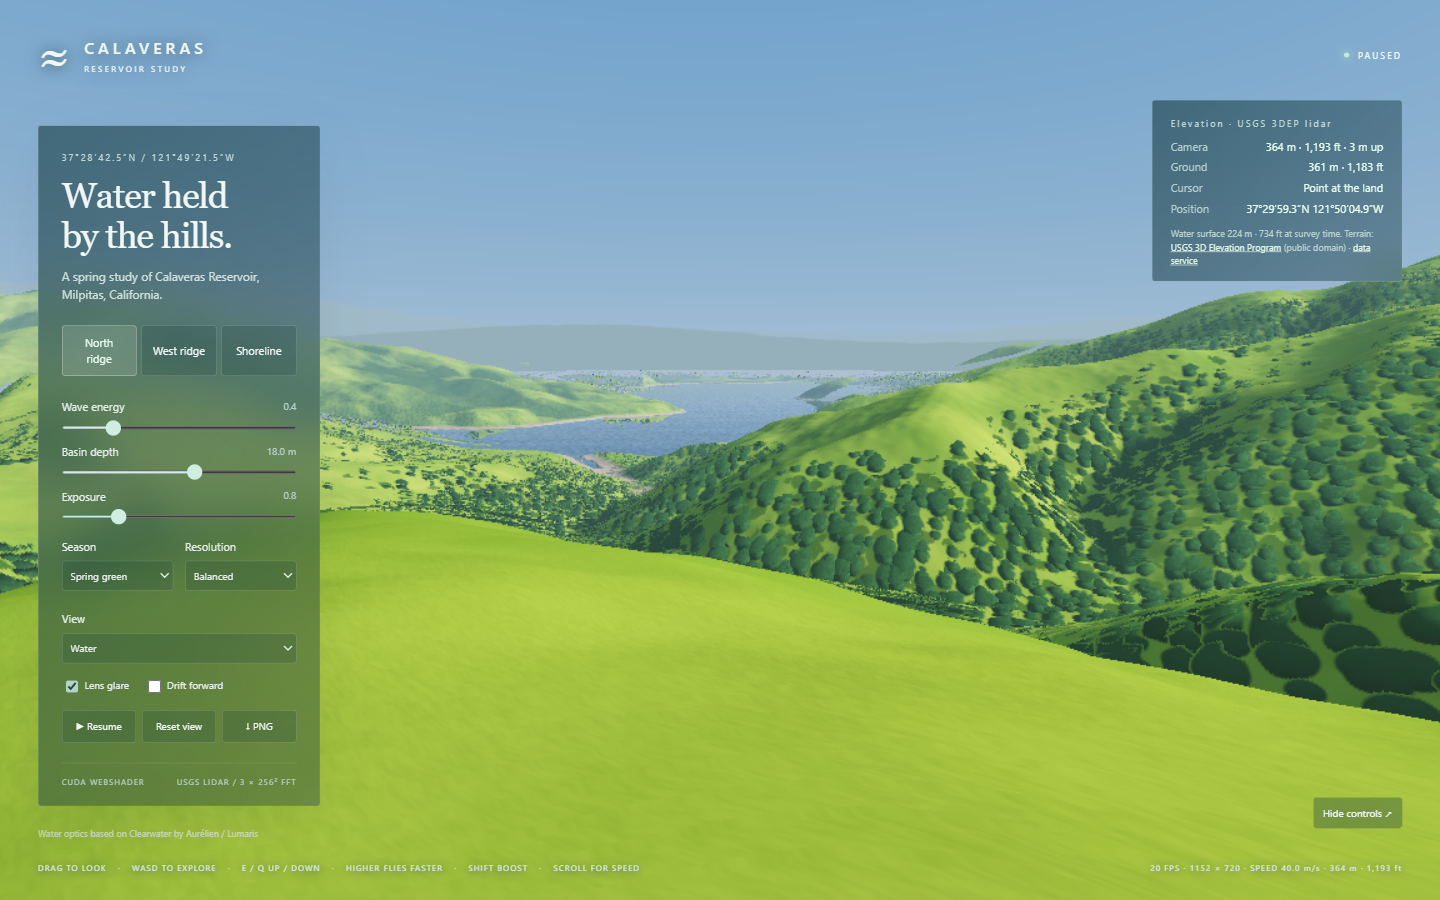
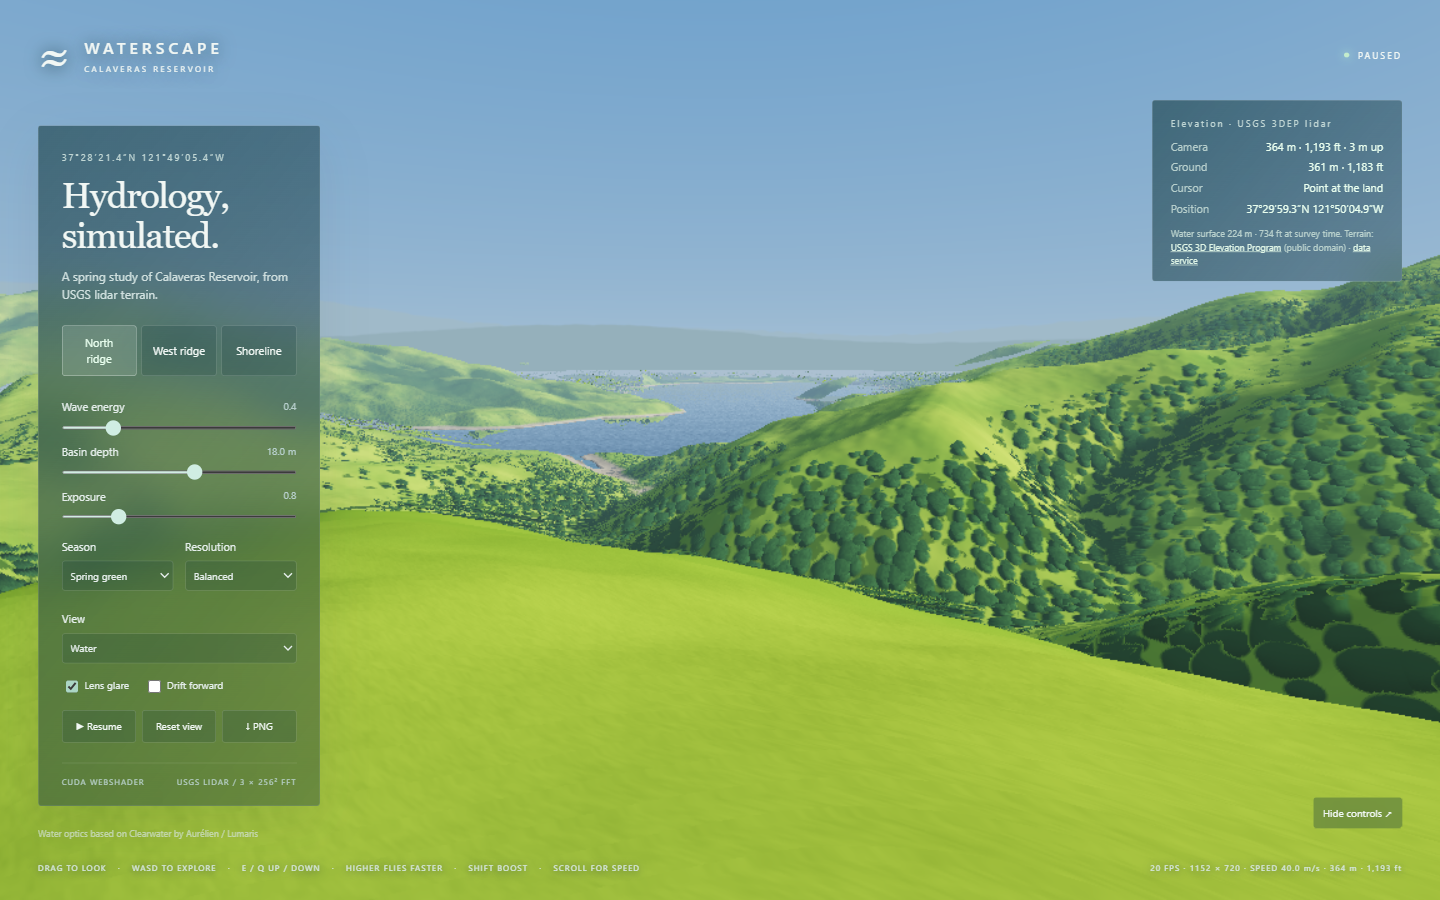
Drive the explore page from a reservoir bundle
?reservoir= picks the bundle, viewpoint buttons come from cameras.json,
?pose= sets the camera and ?embed=1 hides the chrome and reports frame
times to the parent page.

Changed region(s): [[0.0312, 0.1556, 0.1562, 0.28], [0.0625, 0.0311, 0.1562, 0.0933], [0.0312, 0.3111, 0.0938, 0.3422]]

diff --git a/renderer/explore.js b/renderer/explore.js
@@ -3,14 +3,11 @@ import { formatElevation, formatLatLon, loadTerrain } from "./terrain.js";
 const $ = (id) => document.getElementById(id),
   canvas = $("water"),
   q = new URLSearchParams(location.search);
-// Viewpoints on the real (USGS 3DEP lidar) terrain, chosen by a line-of-sight search for
-// ground that sees the most open water; y is set from the ground on load.
-// Local metres: x east, z south, origin on the reservoir. yaw 0 looks north.
-const VIEWPOINTS = {
-  overlook: { x: -1500, z: -3000, above: 3, yaw: 2.69, pitch: -0.12, speed: 40 },
-  ridge: { x: -1600, z: 900, above: 3, yaw: 1.29, pitch: -0.15, speed: 40 },
-  shore: { x: -740, z: 300, above: 1.6, yaw: 1.571, pitch: -0.04, speed: 4 },
-};
+// The reservoir bundle (data/<id>/) supplies terrain and named viewpoints.
+const reservoirId = q.get("reservoir") || "calaveras",
+  bundleBase = new URL(`../data/${reservoirId}/`, import.meta.url),
+  embedded = q.has("embed");
+let VIEWPOINTS = {};
 let terrain = null;
 function viewpoint(name) {
   const { x, z, above, yaw, pitch, speed } = VIEWPOINTS[name];
@@ -41,11 +38,13 @@ function viewRay(sx, sy, aspect, yaw, pitch) {
     l = Math.hypot(...d);
   return d.map((v) => v / l);
 }
-window.calaverasModel = {
+window.waterscapeModel = {
   get terrain() {
     return terrain;
   },
-  viewpoints: VIEWPOINTS,
+  get viewpoints() {
+    return VIEWPOINTS;
+  },
   viewpoint,
 };
 const state = {
@@ -67,8 +66,7 @@ const diag = (window.clearwaterDiagnostics = {
   frames: 0,
   cascades: [4.6, 37, 293],
   fftSize: 256,
-  location: "Calaveras Reservoir",
-  coordinates: [37.478472, -121.822639],
+  location: reservoirId,
 });
 let rt,
   ctx,
@@ -133,18 +131,28 @@ $("toggle").onclick = () => {
     : "Hide controls ↗";
 };
 $("reset").onclick = () => Object.assign(state, viewpoint(state.viewpoint));
-for (const button of document.querySelectorAll("[data-preset]"))
-  button.onclick = () => {
-    const name = button.dataset.preset;
-    state.viewpoint = name;
-    Object.assign(state, viewpoint(name));
-    $("energy").value = name === "shore" ? 0.30 : 0.38;
-    $("depth").value = 18;
-    document
-      .querySelectorAll("[data-preset]")
-      .forEach((b) => b.classList.toggle("active", b === button));
-    labels();
-  };
+function selectViewpoint(name) {
+  state.viewpoint = name;
+  Object.assign(state, viewpoint(name));
+  $("energy").value = name === "shore" ? 0.3 : 0.38;
+  $("depth").value = 18;
+  document
+    .querySelectorAll("[data-preset]")
+    .forEach((b) => b.classList.toggle("active", b.dataset.preset === name));
+  labels();
+}
+function buildPresets() {
+  document.querySelector(".presets").replaceChildren(
+    ...Object.entries(VIEWPOINTS).map(([name, v]) => {
+      const b = document.createElement("button");
+      b.dataset.preset = name;
+      b.textContent = v.label;
+      b.classList.toggle("active", name === state.viewpoint);
+      b.onclick = () => selectViewpoint(name);
+      return b;
+    }),
+  );
+}
 // Elevation readouts from the lidar surface: camera, ground below, and whatever the cursor
 // is over (picked along the same ray the renderer casts for that pixel).
 let hover = null;
@@ -500,6 +508,11 @@ async function frame(now) {
         $("metrics").textContent =
           `${Math.round(1 / dt)} FPS · ${width} × ${height} · SPEED ${state.speed * boost < 100 ? (state.speed * boost).toFixed(1) : Math.round(state.speed * boost).toLocaleString()} m/s · ${formatElevation(terrain.elevation(state.y))}`;
         survey();
+        if (embedded)
+          parent.postMessage(
+            { type: "waterscape:frame", ms: diag.frameMs, reservoir: reservoirId },
+            location.origin,
+          );
       }
     }
     requestAnimationFrame(frame);
@@ -660,7 +673,7 @@ $("capture").onclick = () =>
       const url = URL.createObjectURL(blob),
         a = document.createElement("a");
       a.href = url;
-      a.download = "Calaveras-Reservoir.png";
+      a.download = `${terrain.meta.name.replaceAll(" ", "-")}.png`;
       a.click();
       setTimeout(() => URL.revokeObjectURL(url), 2000);
     });
@@ -670,9 +683,21 @@ try {
   ctx = canvas.getContext("webgpu");
   const source = await (await fetch(new URL("./clearwater.cu", import.meta.url))).text();
   $("loadText").textContent = "Loading USGS lidar terrain…";
-  terrain = await loadTerrain(new URL("../data/calaveras/terrain", import.meta.url).href);
+  if (embedded) document.body.classList.add("embed");
+  terrain = await loadTerrain(new URL("terrain", bundleBase).href);
+  VIEWPOINTS = (await (await fetch(new URL("cameras.json", bundleBase))).json()).viewpoints;
   terrainCells = rt.createBuffer(terrain.gpuCells());
-  Object.assign(state, viewpoint(state.viewpoint));
+  diag.location = terrain.meta.name;
+  diag.coordinates = terrain.latLon(0, 0);
+  document.title = `${terrain.meta.name} · Waterscape`;
+  $("place").textContent = terrain.meta.name.toUpperCase();
+  $("coords").textContent = formatLatLon(terrain.latLon(0, 0));
+  $("intro").textContent = `A spring study of ${terrain.meta.name}, from USGS lidar terrain.`;
+  buildPresets();
+  const pose = q.get("pose")?.split(",").map(Number);
+  if (pose?.length === 5 && pose.every(Number.isFinite))
+    Object.assign(state, { x: pose[0], y: pose[1], z: pose[2], yaw: pose[3], pitch: pose[4] });
+  else Object.assign(state, viewpoint(state.viewpoint));
   $("waterLevel").textContent = formatElevation(terrain.waterLevel);
   $("dataLink").href = terrain.meta.service;
   for (const name of [...source.matchAll(/__global__ void (\w+)/g)].map(

diff --git a/renderer/explore.html b/renderer/explore.html
@@ -5,32 +5,28 @@
     <meta name="viewport" content="width=device-width,initial-scale=1" />
     <meta name="theme-color" content="#243b2d" />
     <link rel="icon" href="data:," />
-    <title>Calaveras Reservoir · Water study</title>
+    <title>Waterscape</title>
     <link rel="stylesheet" href="./explore.css" />
   </head>
   <body>
     <canvas
       id="water"
-      aria-label="Interactive Calaveras Reservoir study. Drag or use arrows to look, WASD to fly, E up, Q down (flying higher moves faster), Shift to boost, scroll to change speed, click the water for ripples."
+      aria-label="Interactive reservoir study. Drag or use arrows to look, WASD to fly, E up, Q down (flying higher moves faster), Shift to boost, scroll to change speed, click the water for ripples."
     ></canvas>
     <header>
       <div class="brand">
         <span class="mark">≈</span>
         <div>
-          <strong>CALAVERAS</strong><small>RESERVOIR STUDY</small>
+          <strong>WATERSCAPE</strong><small id="place">RESERVOIR</small>
         </div>
       </div>
       <div class="live"><i></i><span id="status">INITIALIZING</span></div>
     </header>
     <main id="panel">
-      <p class="eyebrow">37°28′42.5″N / 121°49′21.5″W</p>
-      <h1>Water held<br />by the hills.</h1>
-      <p class="intro">A spring study of Calaveras Reservoir,<br />Milpitas, California.</p>
-      <div class="presets">
-        <button data-preset="overlook" class="active">North ridge</button
-        ><button data-preset="ridge">West ridge</button
-        ><button data-preset="shore">Shoreline</button>
-      </div>
+      <p class="eyebrow" id="coords"></p>
+      <h1>Hydrology,<br />simulated.</h1>
+      <p class="intro" id="intro"></p>
+      <div class="presets"></div>
       <label
         >Wave energy <output id="energyValue">0.4</output
         ><input

diff --git a/renderer/explore.css b/renderer/explore.css
@@ -365,3 +365,13 @@ footer b {
     margin-top: 12px;
   }
 }
+
+/* Embedded in the journey: the view only, no chrome. */
+.embed header,
+.embed #panel,
+.embed .survey,
+.embed footer,
+.embed .credit,
+.embed #toggle {
+  display: none;
+}
